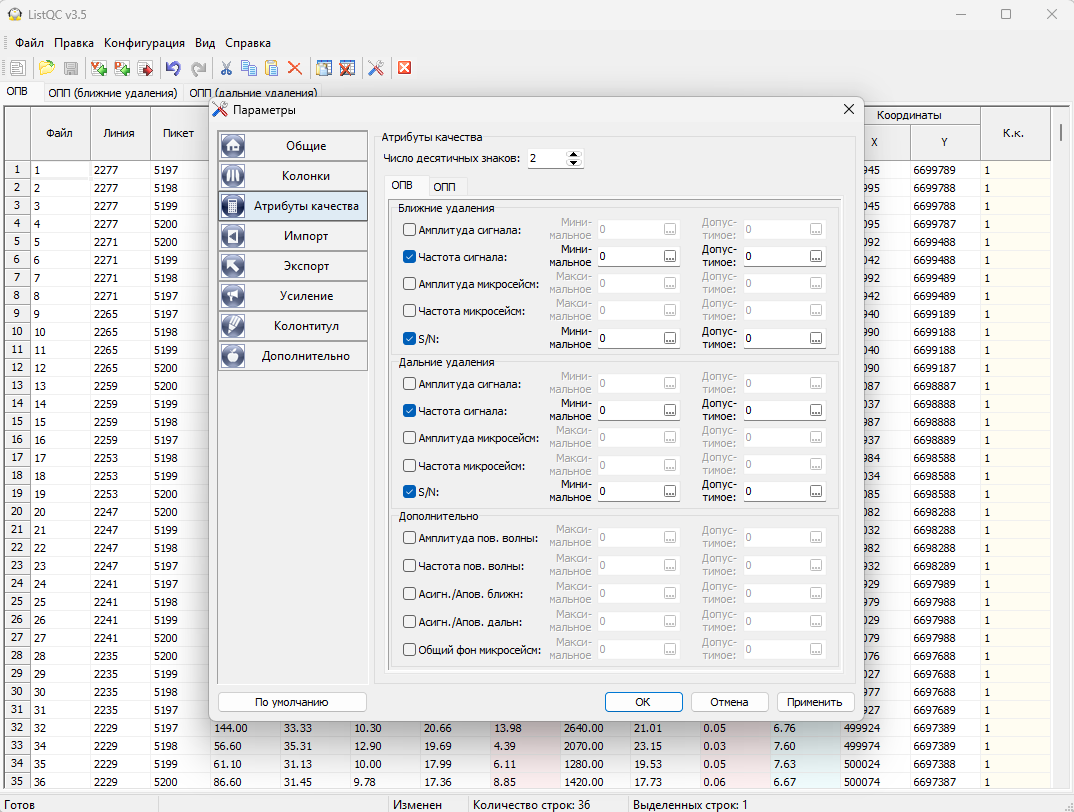
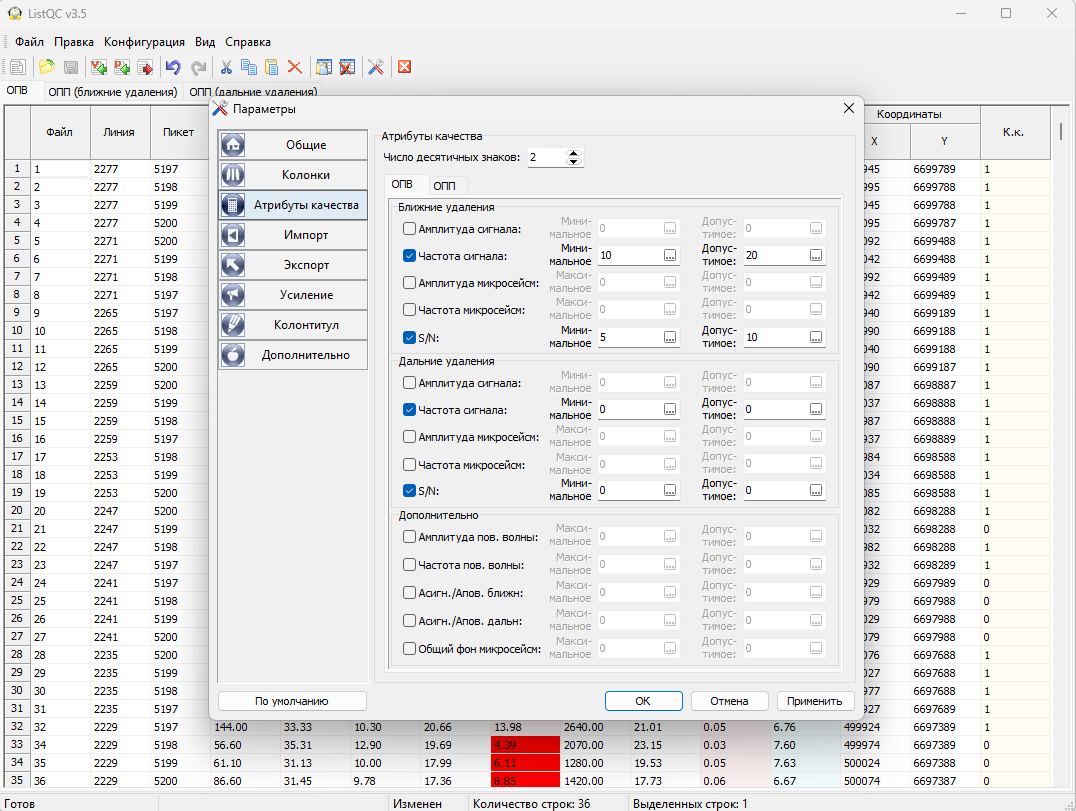
ListQC: скрины с подсветкой по критериям качества
Видно главное, что делает программа: отбракованные наблюдения выделены.

diff --git a/docs/listqc.md b/docs/listqc.md
@@ -6,7 +6,7 @@
 коэффициентом качества - сразу видно, какие ПВ не проходят и по какому
 атрибуту.
 
-![ListQC: таблица ОПВ и импорт листинга](img/listqc.png)
+![ListQC: таблица ОПВ, подсвечены наблюдения с низким S/N](img/listqc.png)
 
 !!! note "Программа для старых систем"
     ListQC сделана под Geovation и Geocluster (CGG): атрибуты считает задание в
@@ -49,9 +49,14 @@
 
 Для каждого атрибута задаются два порога: для сигнала - минимальное и
 допустимое значение, для помех - максимальное и допустимое. По ним каждое
-наблюдение получает коэффициент качества.
+наблюдение получает коэффициент качества. Атрибут, который не прошел
+критерий, подсвечивается в таблице, а коэффициент качества наблюдения
+становится 0.
 
-![Критерии оценки](img/listqc_criteria.png)
+![Критерии: частота сигнала 10 и 20 Гц, S/N 5 и 10](img/listqc_criteria.png)
+
+На скринах этой страницы так отмечены ПВ, у которых S/N на ближних удалениях
+ниже 10.
 
 ## Импорт
 
